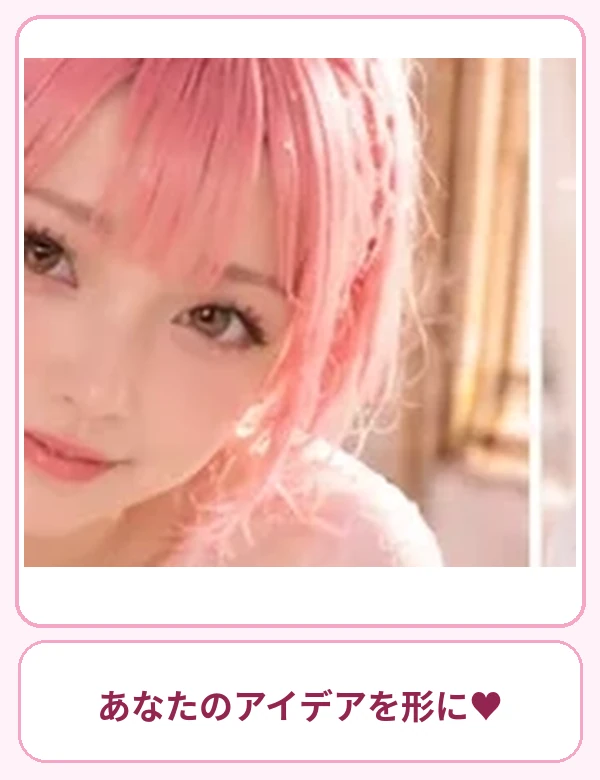
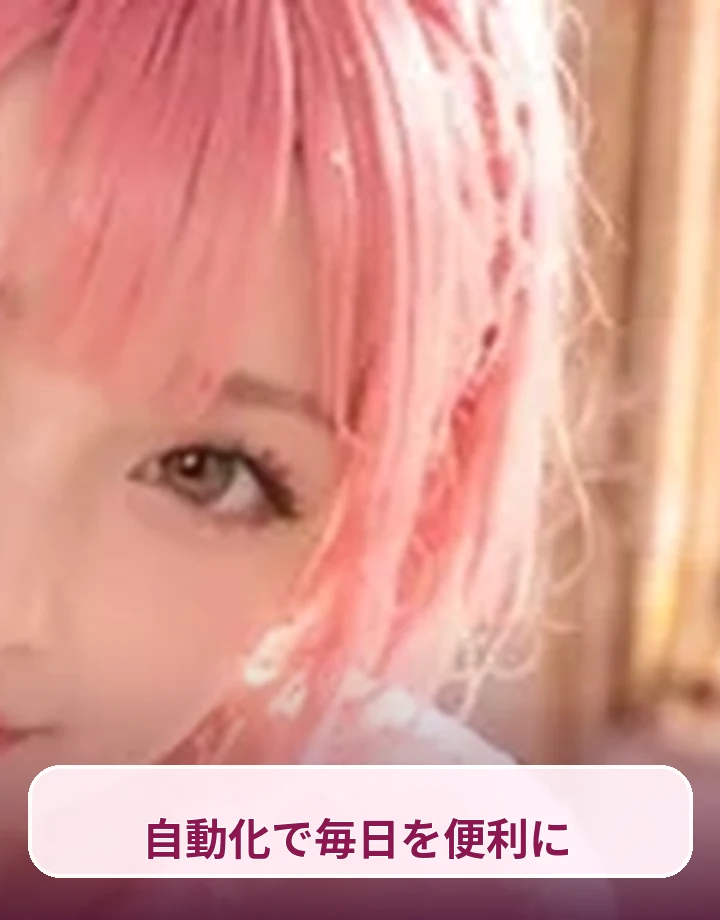
Add files via upload

diff --git a/style.css b/style.css
@@ -26,3 +26,14 @@ html{scroll-padding-top:105px}body{overflow-x:hidden}img{max-width:100%}button,a
 .lesson-photo>.luna-photo-frame.mini-face{width:35%;height:auto!important;bottom:0;right:0;border:5px solid white}
 .lesson-card>.luna-photo-frame .luna-photo-image,.topic-photo .luna-photo-image,.toc-luna .luna-photo-image,.welcome-img .luna-photo-image,.last .luna-photo-image,.end-lesson .luna-photo-image{height:auto!important}
 @media(max-width:620px){.hero-photos{height:auto!important}.hero-side{gap:6px}.hero-side .luna-photo-frame{border-radius:9px}.lesson-photo{min-height:0!important}.topic-photo{width:100%}.cards{grid-template-columns:1fr}}
+
+/* 2026-10-27: Full-bleed photo cards with text embedded inside photo */
+.luna-photo-frame{display:block!important;overflow:hidden!important;width:100%!important;border-radius:20px!important;background:#fff0f7!important;box-shadow:0 10px 24px #d26c9a33!important}
+.luna-photo-frame .luna-photo-image{display:block!important;width:100%!important;height:100%!important;aspect-ratio:18/23!important;object-fit:cover!important;object-position:center!important;border-radius:0!important}
+.lesson-card>.luna-photo-frame{border-radius:20px 20px 0 0!important}
+.hero-photos{align-items:stretch!important;grid-template-columns:minmax(0,1.35fr) minmax(0,1fr)!important}
+.hero-side{align-content:start!important}
+.lesson-photo>.luna-photo-frame:first-child{width:76%!important}
+.lesson-photo>.luna-photo-frame.mini-face{width:35%!important}
+.topic-photo .luna-photo-frame{max-width:100%!important}
+@media(max-width:620px){.hero-photos{grid-template-columns:minmax(0,1.4fr) minmax(0,1fr)!important}.lesson-card>.luna-photo-frame{width:100%!important}.topic-photo .luna-photo-frame{width:100%!important}}
